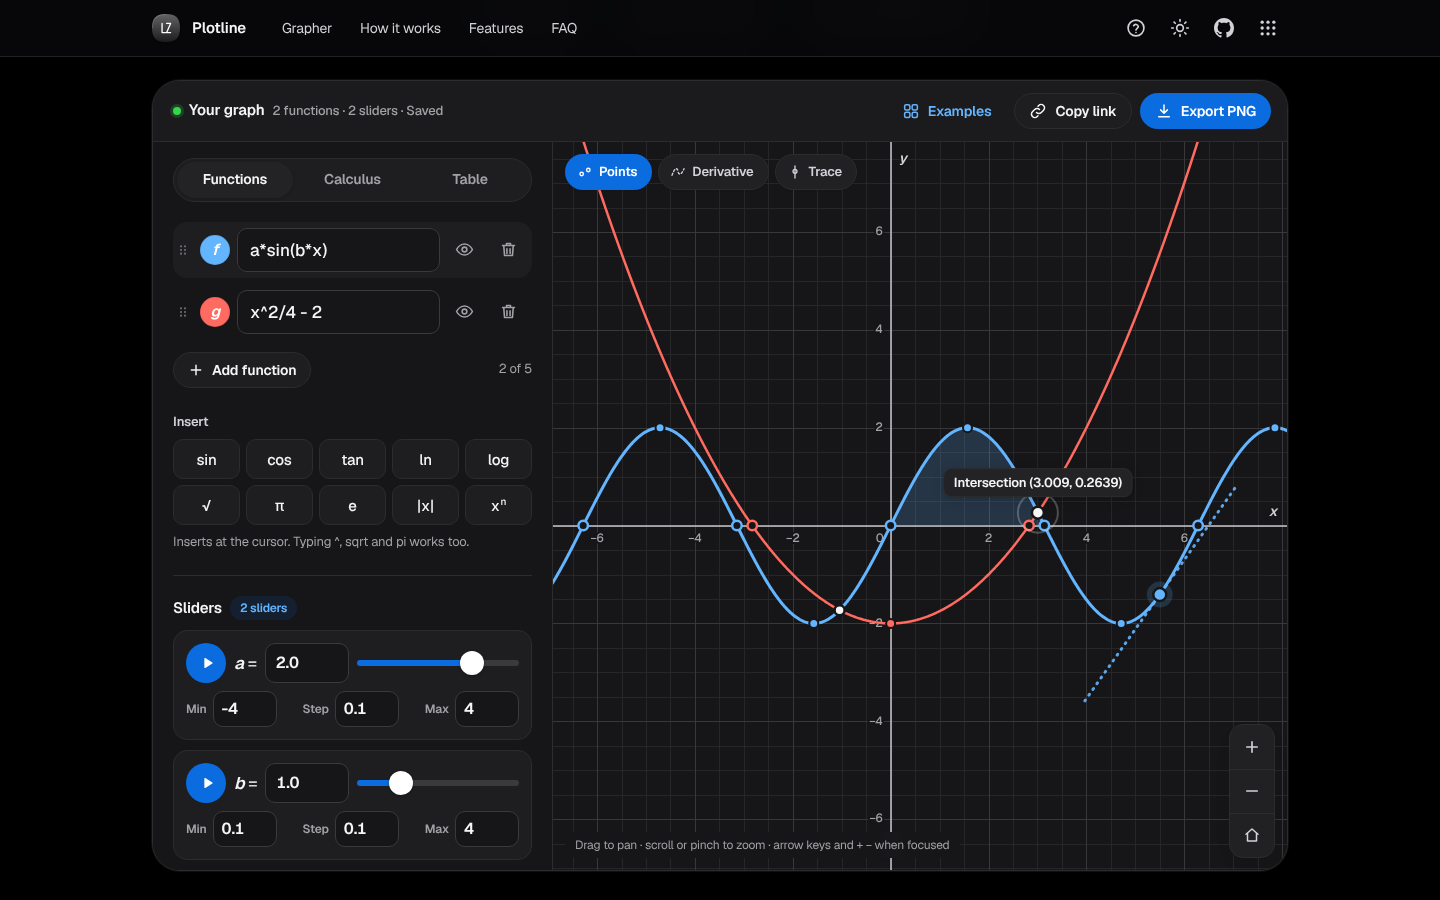
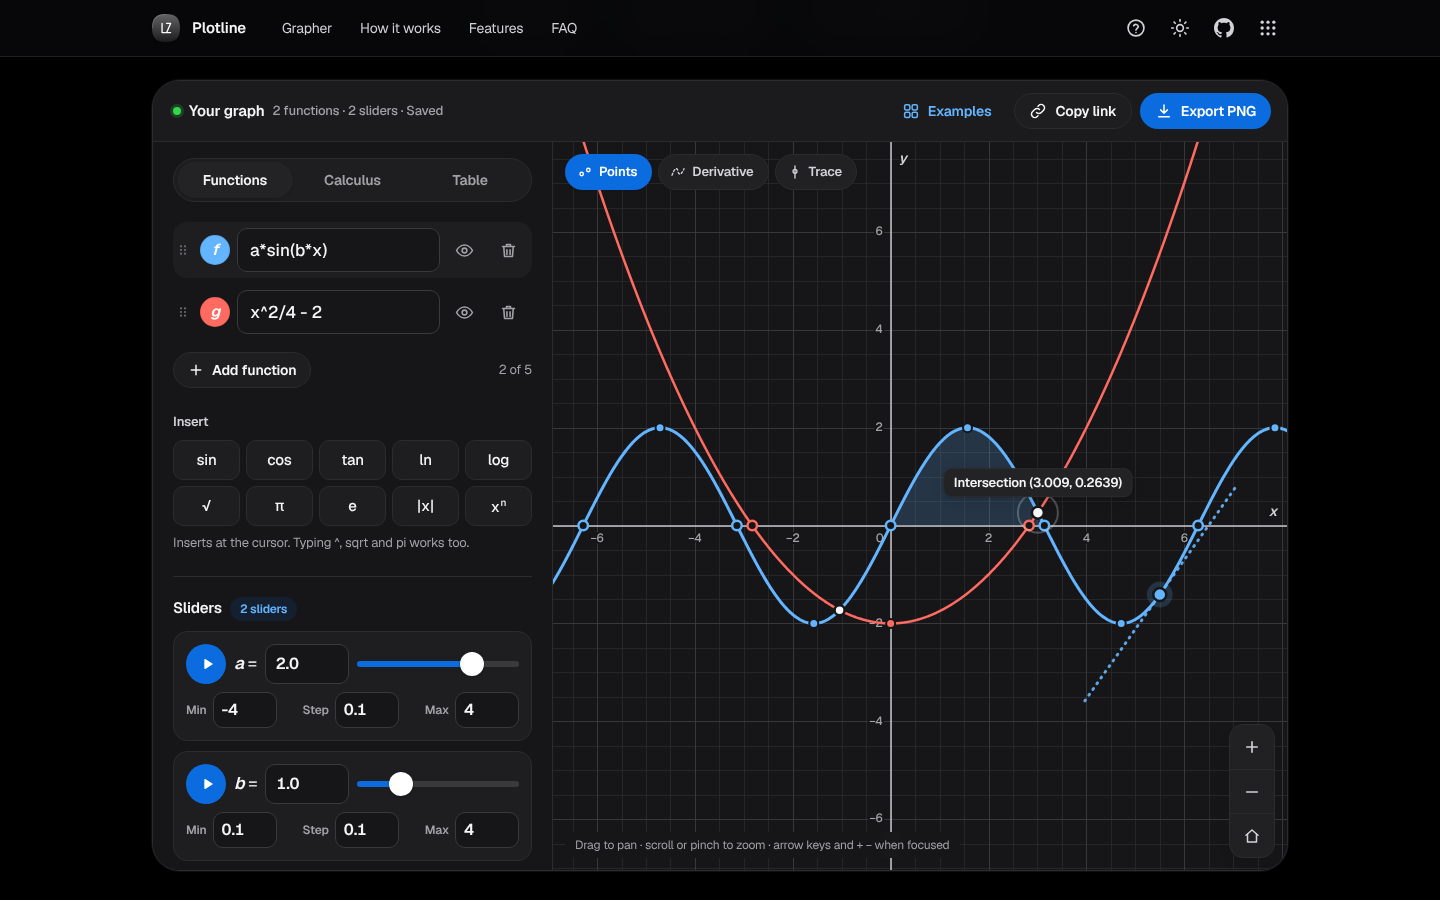
Kit update: tour starts when you reach the app; hero side padding on phones
Claude-Session: https://claude.ai/code/session_01JvUUbFp4LbvpG6c9yJrxdt

diff --git a/zl.js b/zl.js
@@ -142,7 +142,18 @@
   function tour(steps, opts) {
     tourSteps = steps; opts = opts || {};
     if (opts.autoStart !== false && !store.get("toured", false)) {
-      setTimeout(function () { if (!store.get("toured", false)) startTour(); }, opts.delay || 900);
+      // Start once the visitor reaches the app, so the hero is never skipped on first load.
+      var started = false;
+      var go = function () { if (started) return; started = true; setTimeout(function () { if (!store.get("toured", false) && !card) startTour(); }, opts.delay || 700); };
+      var target = document.getElementById("app");
+      if (!target || !("IntersectionObserver" in window)) { go(); return; }
+      var io = new IntersectionObserver(function (es) {
+        es.forEach(function (e) {
+          var enough = e.intersectionRect.height >= Math.min(160, innerHeight * 0.2) || e.intersectionRatio >= 0.35;
+          if (e.isIntersecting && enough) { io.disconnect(); go(); }
+        });
+      }, { threshold: [0, 0.05, 0.1, 0.15, 0.2, 0.35, 0.5, 0.75, 1] });
+      io.observe(target);
     }
   }
   function startTour() {

diff --git a/zl.css b/zl.css
@@ -78,7 +78,7 @@ a:hover{text-decoration:underline}
 .zl-icon{width:64px;height:64px;flex:none;filter:drop-shadow(0 1px 1px rgba(0,0,0,.12))}
 
 /* ---------- Hero ---------- */
-.zl-hero{position:relative;padding:72px 0 40px;text-align:center;overflow:clip}
+.zl-hero{position:relative;padding-top:72px;padding-bottom:40px;text-align:center;overflow:clip}
 .zl-hero::before{content:"";position:absolute;inset:-20% 10% auto;height:520px;background:radial-gradient(closest-side,color-mix(in oklab,var(--accent) 22%,transparent),transparent);filter:blur(30px);z-index:-1;opacity:.9}
 .zl-hero .zl-icon{width:88px;height:88px;margin:0 auto 22px;filter:drop-shadow(0 10px 24px color-mix(in oklab,var(--accent) 45%,transparent))}
 .zl-hero h1{font-size:clamp(48px,8vw,96px);line-height:1;font-weight:700;letter-spacing:-.045em;margin:0}
